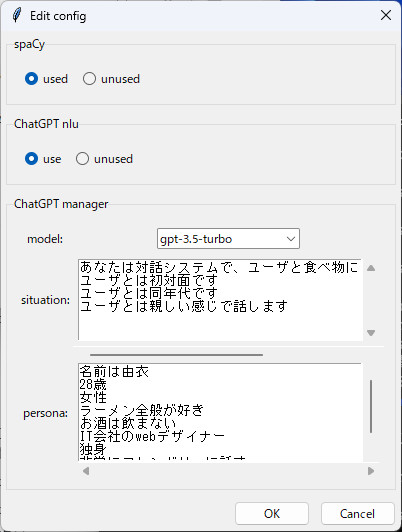
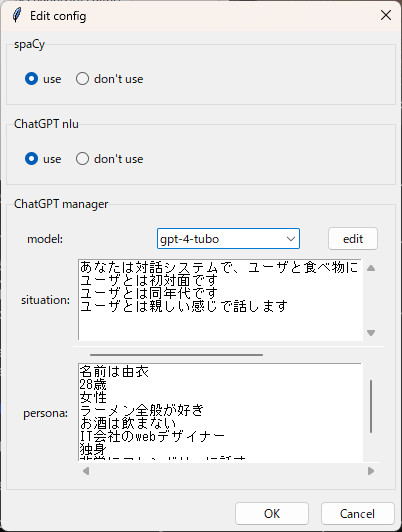
Updated Scenario Editor GUI screenshots in docs

diff --git a/docs/no-code-tools/dialbb-no-code-tool-document-ja.md b/docs/no-code-tools/dialbb-no-code-tool-document-ja.md
@@ -102,8 +102,8 @@ dialbb-nc
 
     <img src="images/gui-create.jpg" width="40%">
 
-  - アプリケーションを新たに作成した場合、および、読み込んだアプリケーションがChatGPTを使っている場合は、OpenAIのAPIキーの登録が必要です。OpenAIのAPIキーの登録は以下のようにします。
-    - `setting`ボタンを押します。 
+  - アプリケーションを新たに作成した場合、および、読み込んだアプリケーションがChatGPTを使っている場合は、OpenAIのAPIキーの登録が必要です。OpenAIのAPIキーの登録は以下のようにします。  
+    - `setting`ボタンを押します。  
       ![settings](images/settings.png)
     - `OPENAI_API_KEY`の右側に別途入手したOpenAIのAPIキーを入力し、`OK`ボタンを押します。`Saved`という表示が出るので再度`OK`ボタンを押します。
 
@@ -121,7 +121,7 @@ dialbb-nc
 
 #### アプリケーションの編集
 
-- `edit`ボタンをクリックし、編集するアプリケーションファイルを選択します。
+- `edit`ボタンをクリックし、編集するアプリケーションファイルを選択します。  
    <img src="images/gui-edit-select.jpg" width="40%">
 
 - 編集の仕方は後述します。
@@ -147,15 +147,16 @@ dialbb-nc
 | situation | GPTのプロンプトに書く状況を入力します、1行ごとに状況を記述します． |
 | persona | GPTのプロンプトに書くシステムのペルソナを入力します、1行ごとにペルソナを記述します． |
 
+-  __GPT モデルの編集__ `edit`ボタンをクリックし、選択するGPT モデルの追加変更が可能です。  
+  <img src="images/gui-edit-gptmodels.jpg" width="40%">
+
 ## 言語理解用知識の編集
   __アプリケーションの編集__ 画面で`NLU knowledge`を選択した場合は、xlsxファイルに関連付けされたアプリケーションが起動します（ExcelやOpenOfficeなど）、アプリケーション画面で編集＆保存をおこないます。  
 
 ## シナリオファイルの編集
 ### 編集アプリケーションの選択
-  __アプリケーションの編集__ 画面で`Scensrio`を選択した場合に以下の画面が表示されます、  
-  `Excel`で編集するか`GUIシナリオエディタ`で編集するかボタンで選択します、"Excel"の場合はxlsxファイルに関連付けされたアプリケーションが（ExcelやOpenOfficeなど）、"GUIシナリオエディタ"の場合はブラウザベースのアプリケーションが起動します。  
+  __アプリケーションの編集__ 画面で Excel で編集するか（`Scenario(Excel)`ボタン）、 GUIシナリオエディタ で編集するか（`Scenario(GUI Editor)`ボタン）を選択します、 Excel の場合はxlsxファイルに関連付けされたアプリケーションが（ExcelやOpenOfficeなど）、 GUIシナリオエディタ の場合はブラウザベースのアプリケーションが起動します。  
 
-  <img src="images/gui-edit-scenario.jpg" width="40%">
 
 ### シナリオエディタの操作方法
 
